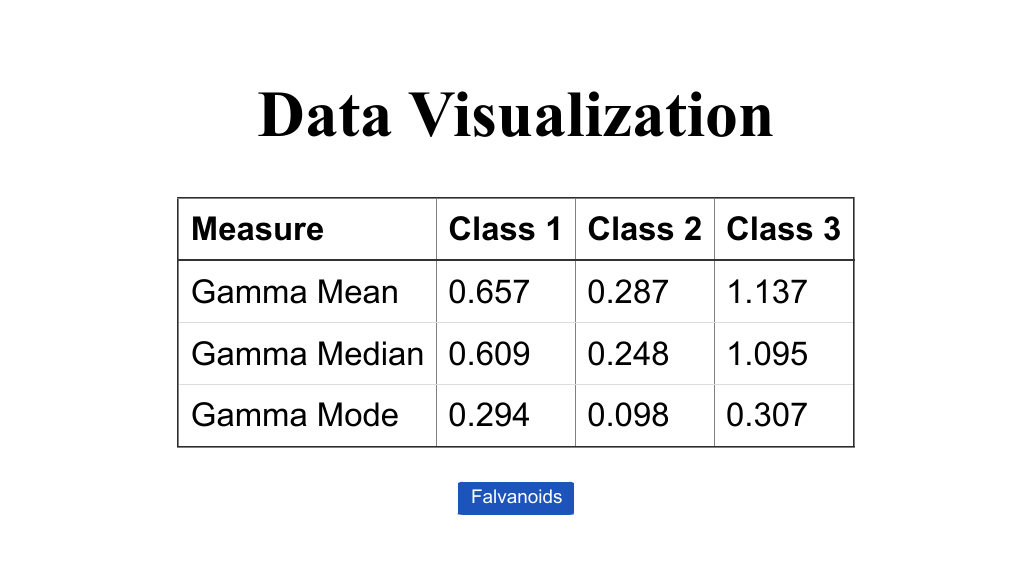
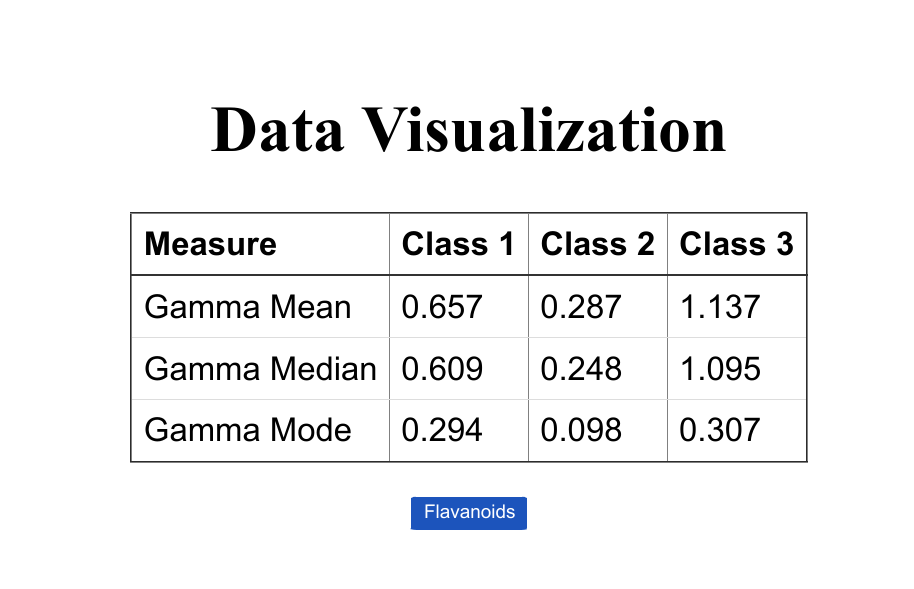
spell fixes

diff --git a/src/components/Gamma.jsx b/src/components/Gamma.jsx
@@ -3,7 +3,7 @@ import { WineData } from "./data";
 
 function GammaMean(values) {
    const sum = values.reduce((acc, value) => acc + parseFloat(value), 0);
-   return (sum / values.length);
+   return sum / values.length;
 }
 
 function GammaMedian(values) {
@@ -17,41 +17,39 @@ function GammaMedian(values) {
 }
 
 function GammaMode(values) {
-    const valueCount = {};
-    values.forEach((value) => {
-       if (valueCount[value]) {
-          valueCount[value]++;
-       } else {
-          valueCount[value] = 1;
-       }
-    });
- 
-    let mode = null;
-    let maxCount = 0;
- 
-    for (const value in valueCount) {
-       if (valueCount[value] > maxCount) {
-          mode = parseFloat(value);
-          maxCount = valueCount[value];
-       }
-    }
- 
-    return mode !== null ? mode.toFixed(3) : null; 
- }
- 
+   const valueCount = {};
+   values.forEach((value) => {
+      if (valueCount[value]) {
+         valueCount[value]++;
+      } else {
+         valueCount[value] = 1;
+      }
+   });
+
+   let mode = null;
+   let maxCount = 0;
+
+   for (const value in valueCount) {
+      if (valueCount[value] > maxCount) {
+         mode = parseFloat(value);
+         maxCount = valueCount[value];
+      }
+   }
+
+   return mode !== null ? mode.toFixed(3) : null;
+}
 
 const Gamma = () => {
    const uniqueAlcohols = [...new Set(WineData.map((item) => item["Alcohol"]))];
-
    const statistics = {};
 
    uniqueAlcohols.forEach((alcohol) => {
       const alcoholData = WineData.filter((item) => item["Alcohol"] === alcohol);
       const GammaValues = alcoholData.map((item) => {
-        return (item.Ash * item.Hue)/item.Magnesium
+         return (item.Ash * item.Hue) / item.Magnesium;
       });
 
-      console.log("Gaam", GammaValues)
+      console.log("Gaam", GammaValues);
 
       statistics[`Alcohol ${alcohol}`] = {
          "Gamma Mean": GammaMean(GammaValues).toFixed(3),

diff --git a/src/App.js b/src/App.js
@@ -11,7 +11,7 @@ function App() {
          <header className="App-header">
             <div>
                {show ? <Flavanoids /> : <Gamma />}
-               <button className="swapbutton" onClick={()=>{setShow(!show)}}>{show ? "Gamma":"Falvanoids"}</button>
+               <button className="swapbutton" onClick={()=>{setShow(!show)}}>{show ? "Gamma":"Flavanoids"}</button>
             </div>
          </header>
       </div>

diff --git a/src/components/Flavanoids.jsx b/src/components/Flavanoids.jsx
@@ -40,8 +40,8 @@ function FlavanoidsMode(values) {
 }
 
 const Flavanoids = () => {
-   const uniqueAlcohols = [...new Set(WineData.map((item) => item["Alcohol"]))];
 
+   const uniqueAlcohols = [...new Set(WineData.map((item) => item["Alcohol"]))];
    const statistics = {};
 
    uniqueAlcohols.forEach((alcohol) => {
